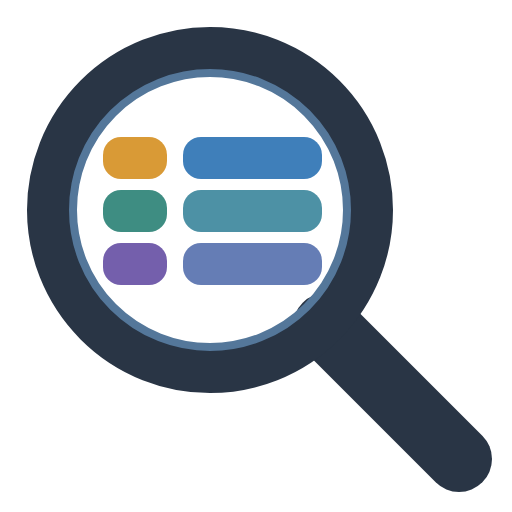
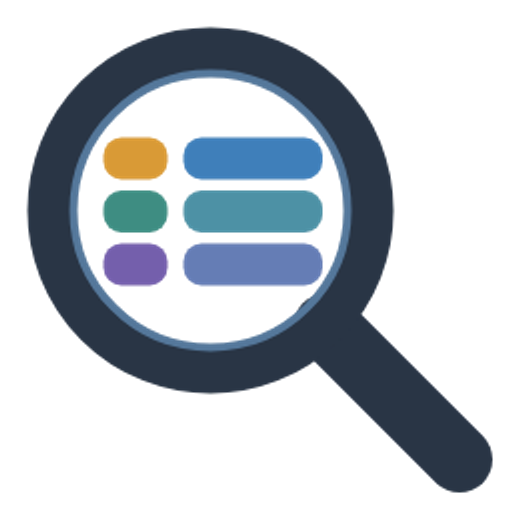
fix: make approved raster media authoritative

diff --git a/media/ASSET-PROVENANCE.md b/media/ASSET-PROVENANCE.md
@@ -6,8 +6,8 @@
 - **Style reference:** the user-approved Color My Workspaces marketplace icon from this portfolio.
 - **Concept source:** OpenAI ImageGen, generated as a transparent RGBA cutout and retained in `icon-imagegen-source.png`.
 - **Prompt direction:** a flat magnifying glass inspecting exactly three abstract key/value rows; no text, backdrop, glow, glass, gloss, shadow, or extreme saturation.
-- **Production master:** `icon.svg`, a geometry and palette cleanup of the generated concept made to remove edge artifacts, avoid a washed-out result, and preserve legibility at 32 px. The final palette uses graphite with controlled amber, blue, teal, and violet accents.
-- **Exports:** `icon-512.png` and `icon.png`, rendered directly from the transparent vector master with headless Chromium.
+- **Approved production raster:** `source/env-lens-approved.png`, locked after removing edge artifacts from the generated concept while preserving the approved geometry and controlled amber, blue, teal, and violet palette.
+- **Exports:** `icon-512.png` and `icon.png`, rendered directly from the approved transparent PNG. No SVG reinterpretation remains.
 
 The final PNG files use a real alpha channel. Empty pixels, including all four corners, are transparent.
 

diff --git a/docs/PDR.md b/docs/PDR.md
@@ -233,6 +233,10 @@ Integration:
 - Restricted Mode behavior;
 - web host and writable virtual filesystem.
 
+## Assets
+
+`media/icon-imagegen-source.png` retains the original generated concept. `media/source/env-lens-approved.png` is the visually approved, cleaned native-alpha raster. `media/icon.png` and `media/icon-512.png` are rendered directly from that PNG; no SVG production path remains. `media/preview.png` is the real VS Code runtime capture on a transparent 1200×800 canvas.
+
 ## Acceptance criteria for v1
 
 - no secret value leaves the extension process;

diff --git a/AGENTS.md b/AGENTS.md
@@ -10,6 +10,7 @@ VS Code extension (`gvastethecreator.env-lens`). pnpm. TypeScript in `src/`. esb
 - Compile: `pnpm run compile`
 - Watch: `pnpm run watch`
 - Production bundle: `pnpm run package`
+- Media from approved raster: `pnpm run render:media`
 - VSIX: `pnpm run vsix`
 
 F5 (`Run Extension`) compiles, then opens `test-workspace/`.
